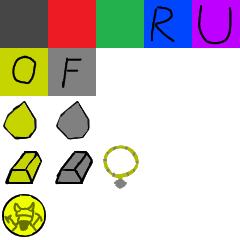
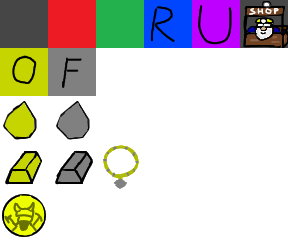
changing list obj and starting shop

Changed region(s): [[0.0, 0.0, 0.4083, 0.5833], [0.0, 0.5833, 0.5833, 0.9917], [0.4958, 0.0, 1.0, 0.2042]]

diff --git a/src/Map.java b/src/Map.java
@@ -4,6 +4,7 @@ import java.awt.image.BufferedImage;
 import java.io.File;
 import java.io.FileNotFoundException;
 import java.io.IOException;
+import java.util.LinkedList;
 import java.util.Scanner;
 import javax.imageio.ImageIO;
 
@@ -16,7 +17,12 @@ public class Map {
 	private File fileMap;
 	private String[][] stringMap;
 	private Block[][] blockMap;
-	public Object[][] listItem;
+	public LinkedList<Object>[] listObj;
+
+	private BufferedImage floorImg;
+	private BufferedImage wallImg;
+	private BufferedImage shopImg;
+	private BufferedImage startImg;
 	
 	private int lenX = 0;
 	private int lenY = 0;
@@ -49,6 +55,10 @@ public class Map {
 		} catch (IOException e) {
 			e.printStackTrace();
 		}
+		wallImg = tiles.getSubimage(sizeTile, sizeTile * blockIndex, sizeTile, sizeTile);
+		floorImg = tiles.getSubimage(0, sizeTile * blockIndex, sizeTile, sizeTile);
+		startImg = tiles.getSubimage(sizeTile * 2, 0, sizeTile, sizeTile);
+		shopImg = tiles.getSubimage(sizeTile * 5, 0, sizeTile, sizeTile);
 		System.out.println("Initialing map");
 		InitializeStringMap();
 		InitializeItem();
@@ -78,18 +88,20 @@ public class Map {
 		for (int i = 0; i < lenY; i++){
 			for (int j = 0; j < lenX; j++){
 				if (stringMap[i][j].equals("1")) {
-					blockMap[i][j] = new Block(data, j, i, true, tiles.getSubimage(sizeTile, sizeTile * blockIndex, sizeTile, sizeTile));
+					blockMap[i][j] = new Block(data, j, i, true, wallImg);
 				} else if (stringMap[i][j].equals("0")) {
-					blockMap[i][j] = new Block(data, j, i, false, tiles.getSubimage(0, sizeTile * blockIndex, sizeTile, sizeTile));
+					blockMap[i][j] = new Block(data, j, i, false, floorImg);
 				} else if (stringMap[i][j].equals("P")){
 					startPosX = j;
 					startPosY = i;
-					blockMap[i][j] = new Block(data, j, i, false, tiles.getSubimage(sizeTile * 2, 0, sizeTile, sizeTile));
+					blockMap[i][j] = new Block(data, j, i, false, startImg);
 				} else if (stringMap[i][j].equals("N")) {
 					blockMap[i][j] = new Block(data, j, i, true, null);
+				} else if (stringMap[i][j].equals("M")) {
+					blockMap[i][j] = new Shop(data, j, i, true, shopImg);
 				} else {
 					int index = 0;
-					for (Object o : listItem[0]){
+					for (Object o : listObj[0]){
 						Item item = (Item)o;
 						if (stringMap[i][j].equals(item.getSymb())){
 							blockMap[i][j] = new Ressource(item, data, j, i, true, 
@@ -148,6 +160,10 @@ public class Map {
 		String[] tab;
 		int i = 0;
 
+		listObj = new LinkedList[3];
+		listObj[0] = new LinkedList<Object>();
+		listObj[1] = new LinkedList<Object>();
+		listObj[2] = new LinkedList<Object>();
 		try {
 			scan = new Scanner(fileMap);
 			line = scan.nextLine();
@@ -155,23 +171,21 @@ public class Map {
 				line = scan.nextLine();
 			}
 			line = scan.nextLine();
-			tabItem = (line.split(":"))[1].split("_");
+			tabItem = (line.split(":"))[1].split(";");
 			line = scan.nextLine();
-			tabRecipe = (line.split(":"))[1].split("_");
-			listItem = new Item[2][];
-			listItem[0] = new Item[tabItem.length];
-			listItem[1] = new Item[tabRecipe.length];
+			tabRecipe = (line.split(":"))[1].split(";");
+
 			for (String s : tabItem){
-				tab = s.split(";");
-				listItem[0][i] = new Item(tab[0], tab[1], Integer.parseInt(tab[2]),
-								tiles.getSubimage(sizeTile * i, sizeTile * itemIndex, sizeTile, sizeTile));
+				tab = s.split("_");
+				listObj[0].add(new Item(tab[0], tab[1], Integer.parseInt(tab[2]), Integer.parseInt(tab[3]),
+								tiles.getSubimage(sizeTile * i, sizeTile * itemIndex, sizeTile, sizeTile)));
 				i++;
 			}
 			i = 0;
 			for (String s : tabRecipe){
-				tab = s.split(";");
-				listItem[1][i] = new Recipe(tab[0], tab[1], null, Integer.parseInt(tab[2]),
-								tiles.getSubimage(sizeTile * i, sizeTile * recipeIndex, sizeTile, sizeTile));
+				tab = s.split("_");
+				listObj[1].add(new Recipe(tab[0], tab[1], null, Integer.parseInt(tab[2]), Integer.parseInt(tab[3]),
+								tiles.getSubimage(sizeTile * i, sizeTile * recipeIndex, sizeTile, sizeTile)));
 				i++;
 			}
 			System.out.println();
@@ -179,8 +193,8 @@ public class Map {
 		} catch (FileNotFoundException e){
 			return false;
 		}
-		for (Object o : listItem[1]){
-			((Recipe)o).createIngredient(listItem);
+		for (Object o : listObj[1]){
+			((Recipe)o).createIngredient(listObj);
 		}
 		return true;
 	}

diff --git a/src/Inventory.java b/src/Inventory.java
@@ -26,7 +26,7 @@ import javax.swing.UIManager;
 public class Inventory extends JTabbedPane {
 	
 	private LinkedList<Slot> items;
-	private Object[][] listItem;
+	private LinkedList<Object>[] listObj;
 
 	public int money;
 	private JTextArea moneyText;
@@ -233,10 +233,10 @@ public class Inventory extends JTabbedPane {
 		crafttext.setBackground(transparent);
 		crafttext.setFont(new Font("Squealer Embossed", Font.BOLD, 100 * data.size / 48));
 		crafttext.setFocusable(false);
-		nbRecipe = listItem[1].length;
+		nbRecipe = listObj[1].size();
 		craftButton = new JButton[nbRecipe];
 		for (int i = 0; i < nbRecipe; i++){
-			Recipe r = (Recipe)listItem[1][i];
+			Recipe r = (Recipe)listObj[1].get(i);
 
 			JLabel lab = new JLabel(new ImageIcon(new ImageIcon(r.image).getImage().getScaledInstance(data.size, data.size, Image.SCALE_DEFAULT)));
 			lab.setBounds(width / 10, textSize + i * data.size + (i + 1) * spaceBetween, data.size, data.size);
@@ -264,7 +264,7 @@ public class Inventory extends JTabbedPane {
 
 	public void updateCraftPanel(){
 		int i = 0;
-		for (Object o : listItem[1]){
+		for (Object o : listObj[1]){
 			Recipe r = (Recipe)o;
 			System.out.println(r.name);
 			if (!checkIngredient(r)) {
@@ -298,7 +298,7 @@ public class Inventory extends JTabbedPane {
 	public void InitializeCraftPanel(){
 		craftPanel = new JLayeredPane();
 		craftPanel.setBackground(transparent);
-		craftPanel.setPreferredSize(new Dimension(width, textSize + listItem[1].length * data.size + (listItem[1].length + 1) * spaceBetween));
+		craftPanel.setPreferredSize(new Dimension(width, textSize + listObj[1].size() * data.size + (listObj[1].size() + 1) * spaceBetween));
 		craftPanel.setDoubleBuffered(true);
 		craftPanel.setOpaque(true);
 		craftPanel.setFocusable(true);
@@ -319,8 +319,8 @@ public class Inventory extends JTabbedPane {
 		this.setTabComponentAt(1, lab2);
 	}
 
-	public void InitializeInventory(Object[][] listItems, File fileMap){
-		this.listItem = listItems;
+	public void InitializeInventory(LinkedList<Object>[] listObj, File fileMap){
+		this.listObj = listObj;
 		InitializeCraftPanel();
 		InitializeInvPanel();
 		InitializeButton();
@@ -382,11 +382,11 @@ public class Inventory extends JTabbedPane {
 	}
 
 	public void fillInventory(String startInv){
-		String[] items = startInv.split("_");
-
-		for (String s : items){
+		String[] item = startInv.split(";");
+		
+		for (String s : item){
 			String[] i = s.split("-");
-			addObj(getItem(i[1], listItem), Integer.valueOf(i[0]));
+			addObj(getItem(i[1], listObj), Integer.valueOf(i[0]));
 		}
 	}
 
@@ -516,7 +516,7 @@ public class Inventory extends JTabbedPane {
 		return pan;
 	}
 
-	public Item getItem(String name, Object[][] items){
+	public Item getItem(String name, LinkedList<Object>[] items){
 		for (int n = 0; n < 2; n++){
 			for (Object o : items[n]){
 				Item i = (Item)o;

diff --git a/src/Recipe.java b/src/Recipe.java
@@ -1,5 +1,6 @@
 
 import java.awt.image.BufferedImage;
+import java.util.LinkedList;
 
 public class Recipe extends Item {
 	
@@ -7,23 +8,23 @@ public class Recipe extends Item {
 	public Slot[] ingredients;
 	public int nbIngredient;
 
-	public Recipe(String name, String ingredient, String symb, int time, BufferedImage image){
-		super(name, symb, time, image);
+	public Recipe(String name, String ingredient, String symb, int time, int price, BufferedImage image){
+		super(name, symb, time, price, image);
 		this.ingredient = ingredient;
 	}
 
-	public void createIngredient(Object[][] listItems){
+	public void createIngredient(LinkedList<Object>[] listObj){
 		System.out.println(name + " = " + ingredient);
 		String[] items = ingredient.split("\\+");
 		this.nbIngredient = items.length;
 		ingredients = new Slot[nbIngredient];
 		for (int i = 0;i < nbIngredient; i++){
 			String[] item = items[i].split("-");
-			ingredients[i] = new Slot(getItem(item[1], listItems), Integer.valueOf(item[0]));
+			ingredients[i] = new Slot(getItem(item[1], listObj), Integer.valueOf(item[0]));
 		}
 	}
 
-	public Item getItem(String name, Object[][] items){
+	public Item getItem(String name, LinkedList<Object>[] items){
 		for (int n = 0; n < 2; n++){
 			for (Object o : items[n]){
 				Item i = (Item)o;

diff --git a/src/Item.java b/src/Item.java
@@ -7,12 +7,17 @@ public class Item extends Object {
 	public String symb;
 	public int time;
 	public BufferedImage image;
+	public int price;
 
-	public Item(String name, String symb, int time, BufferedImage image){
+	public Item(String name, String symb, int time, int price, BufferedImage image){
 		this.name = name;
 		this.symb = symb;
 		this.time = time;
 		this.image = image;
+	}
+
+	public boolean checkPrice(Inventory inventory) {
+		return (inventory.money <= price);
 	}
 
 	public String getSymb(){

diff --git a/src/Shop.java b/src/Shop.java
@@ -1,0 +1,23 @@
+
+import java.awt.image.BufferedImage;
+import java.util.LinkedList;
+
+public class Shop extends Block {
+
+	LinkedList<Object> sellingObj;
+
+	public Shop(Data data, int x, int y, boolean col, BufferedImage image){
+		super(data, x, y, col, image);
+		sellingObj = new LinkedList<Object>();
+	}
+
+	public void InitialiseObjShop(LinkedList<Object>[] listObj) {
+		for (int i = 0; i < 3; i++){
+			for (Object o : listObj[i]){
+				sellingObj.add(o);
+			}
+		}
+	}
+
+
+}

diff --git a/src/Menu.java b/src/Menu.java
@@ -97,7 +97,7 @@ public class Menu extends JPanel {
 
 		player.InitializePlayer(0, 0);
 		map.InitializeMap();
-		inventory.InitializeInventory(map.listItem, fileMap);
+		inventory.InitializeInventory(map.listObj, fileMap);
 		menuPause.InitializeMenuPause(this, inventory);
 		map.printMap();
 
